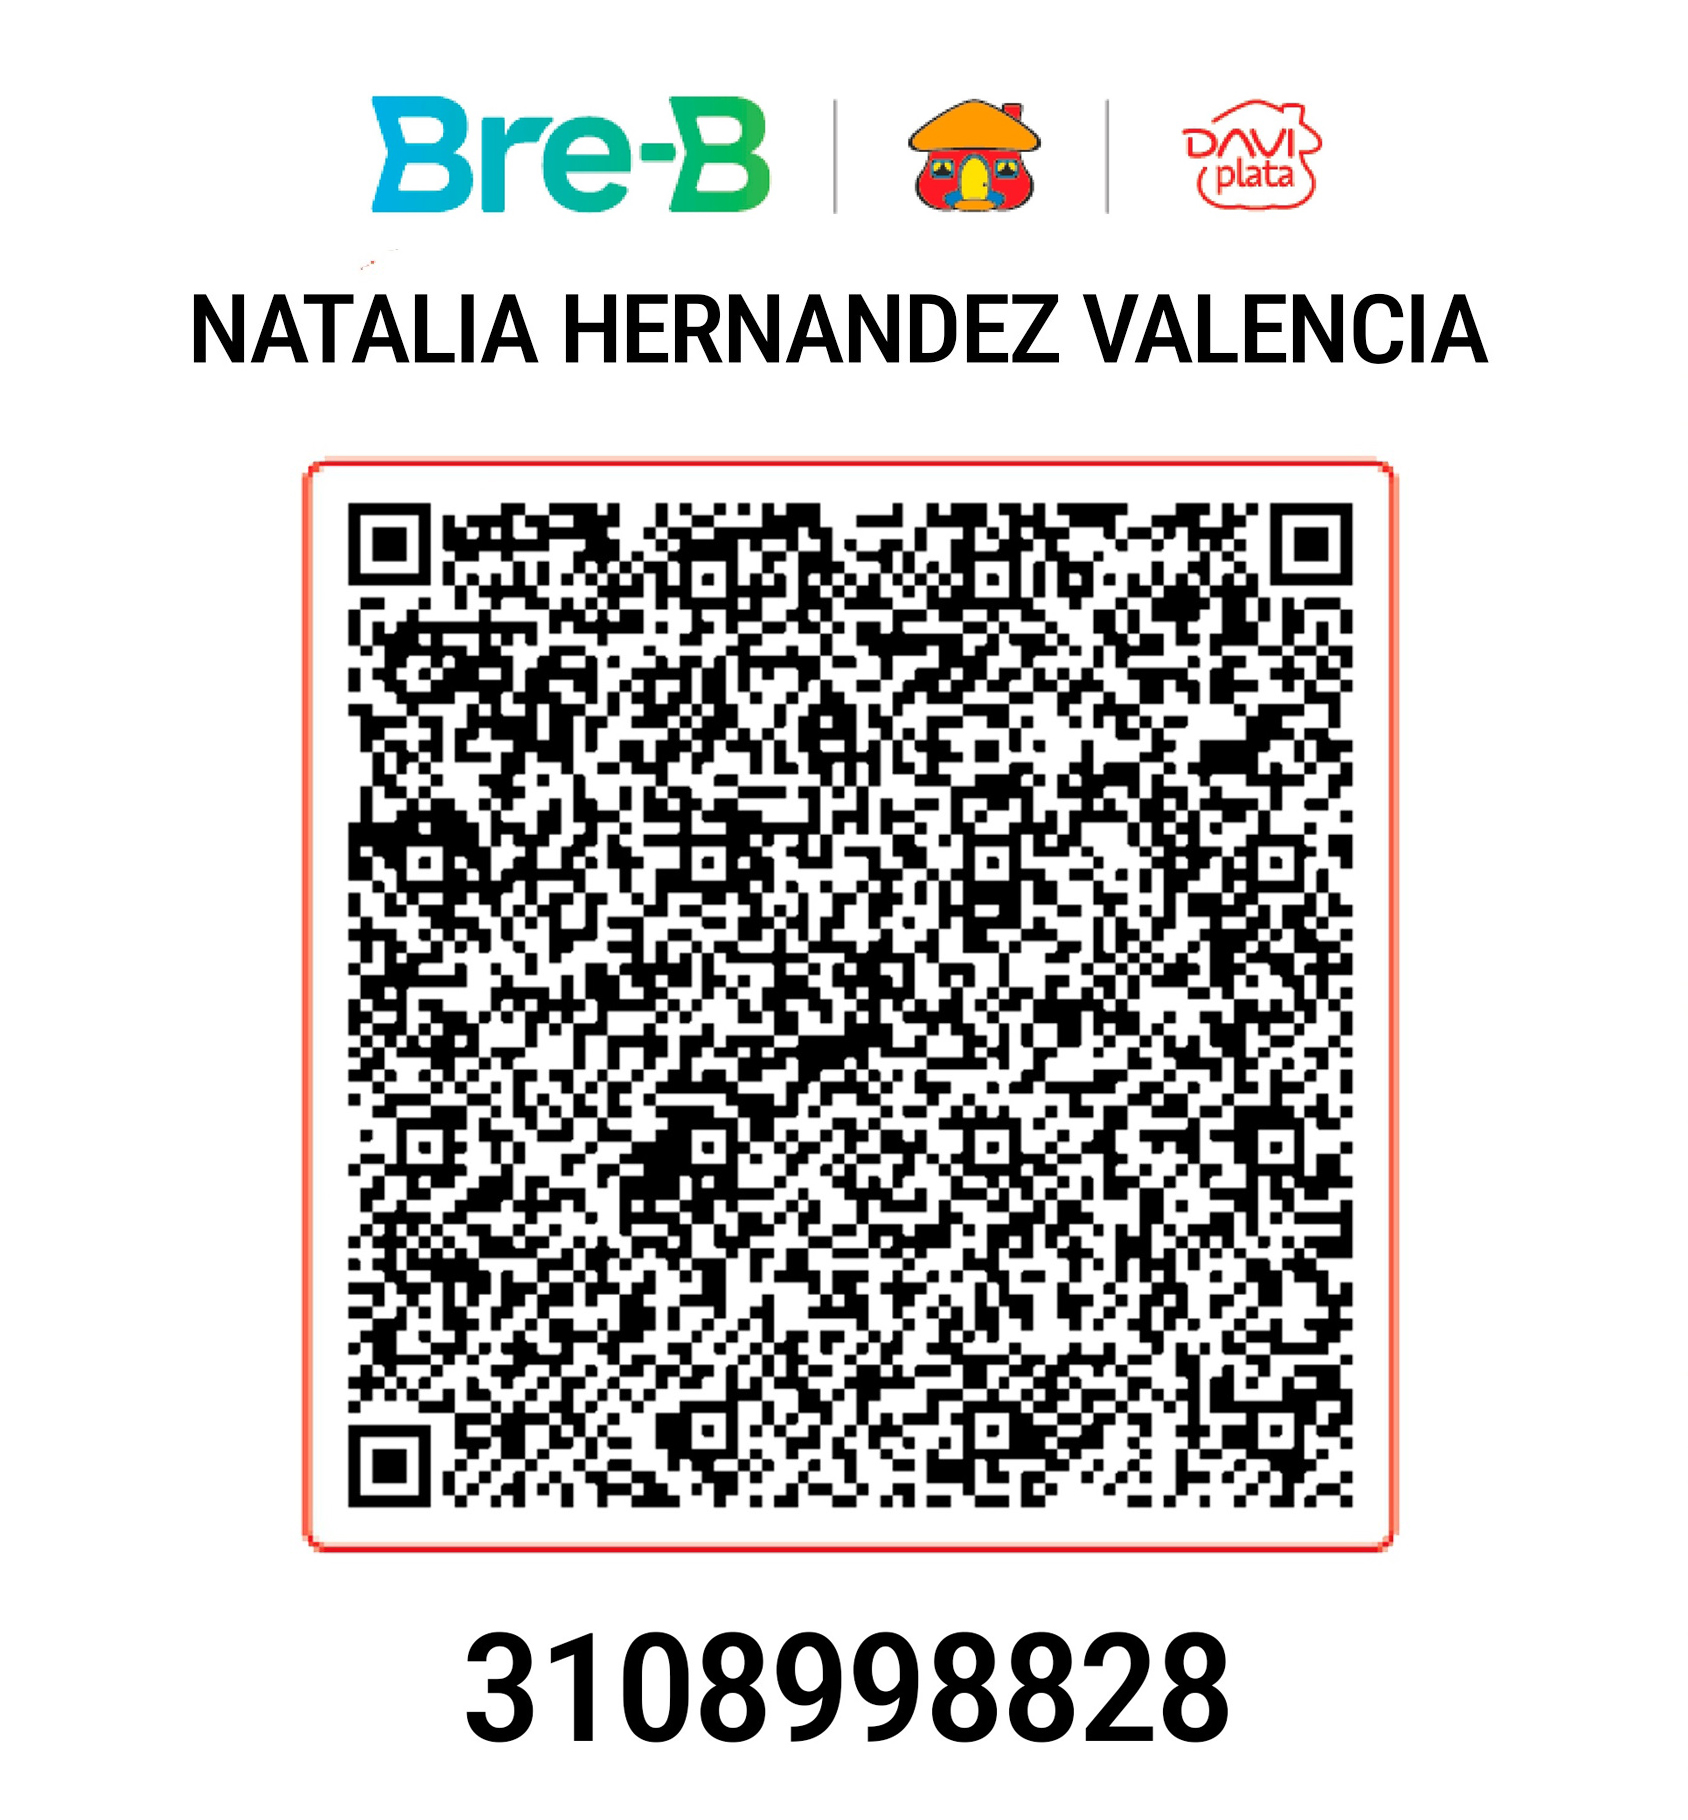
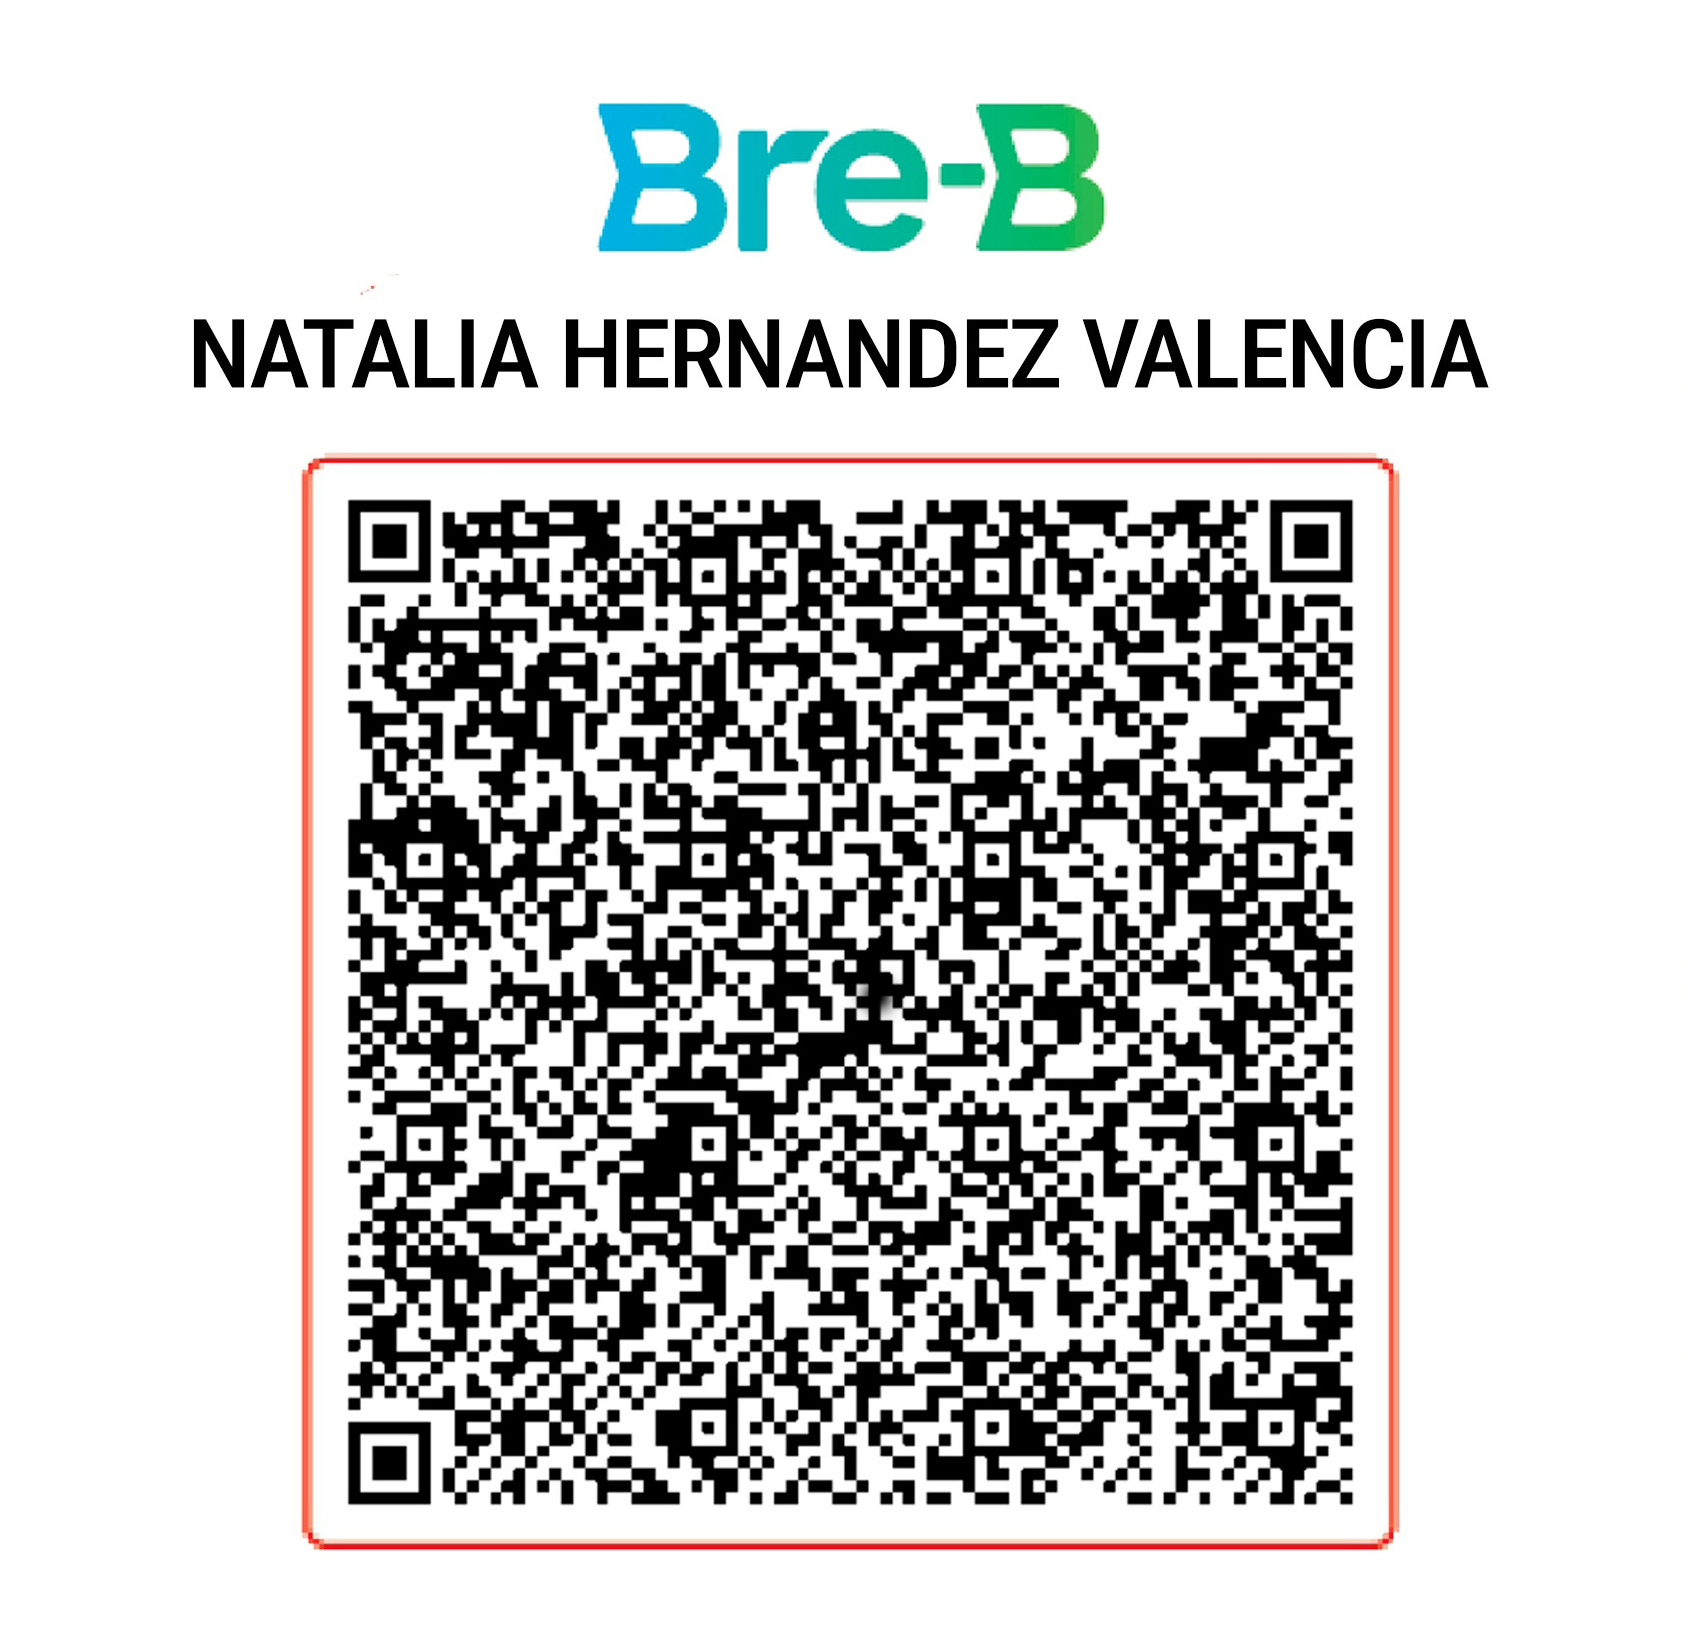
feat: enhance modal component with value display and copy functionality

diff --git a/src/app/components/modal/modal.component.css b/src/app/components/modal/modal.component.css
@@ -13,18 +13,73 @@
   cursor: pointer;
 }
 
-.modal-image {
-  max-width: 90vw;
-  max-height: 90vh;
-
-  object-fit: contain;
-
+.modal-content {
+  background: white;
   border-radius: 8px;
-
-  /* Resalta la imagen */
+  overflow: hidden;
   box-shadow: 0 0 40px rgba(255, 255, 255, 0.25);
-
   cursor: default;
+}
+
+.modal-image {
+  display: block;
+  max-width: 75vw;
+  max-height: 75vh;
+  object-fit: contain;
+}
+
+.value-container {
+  display: flex;
+  flex-direction: column;   /* apila verticalmente */
+  justify-content: center;
+  align-items: center;      /* centra horizontalmente cada hijo */
+  padding: 12px 16px;
+  cursor: pointer;
+}
+
+.value-text {
+  display: flex;
+  justify-content: center;
+  align-items: center;
+  gap: 8px;
+  color: rgb(0, 0, 0);
+  font-weight: bold;
+  font-size: clamp(20px, 5vw, 38px);
+  text-align: center;
+}
+
+.info-text {
+  display: block;
+  width: 100%;
+  color: rgb(0, 0, 0);
+  font-weight: normal;
+  font-size: clamp(10px, 3vw, 12px);
+  line-height: 1.5;         /* alto de línea */
+  text-align: center;       /* centrado horizontal */
+}
+
+.copy-button {
+  display: inline-flex;
+  align-items: center;
+  justify-content: center;
+  padding: 4px;
+  border: 0;
+  background: transparent;
+  color: #000;
+  cursor: pointer;
+}
+
+.copy-button:hover {
+  background: #fff;
+}
+
+.link-card__arrow svg {
+  width: 20px;
+  height: 20px;
+  stroke: currentColor;
+  stroke-width: 1.2;
+  stroke-linecap: round;
+  stroke-linejoin: round;
 }
 
 .close-button {

diff --git a/src/app/components/modal/modal.component.ts b/src/app/components/modal/modal.component.ts
@@ -1,5 +1,6 @@
 import { CommonModule } from '@angular/common';
 import { Component, signal } from '@angular/core';
+import { SocialLink } from '../../app';
 
 @Component({
   selector: 'app-modal',
@@ -11,14 +12,42 @@ import { Component, signal } from '@angular/core';
 export class ModalComponent {
   visible = signal(false);
   imageSrc = ''
+  value = ''
+  copied = signal(false);
+  copiedStatus = signal('\u00A0');
 
-  open(imageSrc: string): void {
-    this.imageSrc = 'images/'+imageSrc;
+  open(link: SocialLink): void {
+    this.imageSrc = 'images/' + link.icon;
+    this.value = link.value;
+
+    // this.imageSrc = 'images/' + link.value;
+    // this.value = "3108998828";
+
     this.visible.set(true);
+  }
+
+  async copyValue() {
+    this.copiedStatus.set('.......');
+
+    try {
+      await navigator.clipboard.writeText(String(this.value));
+    this.copied.set(true);
+      this.copiedStatus.set('Llave copiada.');
+    } catch (err) {
+      console.error('No se pudo copiar:', err);
+      this.copied.set(false);
+      this.copiedStatus.set('No se pudo copiar.');
+    }
+
+    console.log('Valor copiado al portapapeles:', this.value, this.copiedStatus, this.copied);
+
   }
 
   close(): void {
     this.imageSrc = '';
+    this.value = '';
+    this.copiedStatus = signal('\u00A0');
+    this.copied.set(false);
     this.visible.set(false);
   }
 }

diff --git a/src/app/components/modal/modal.component.html b/src/app/components/modal/modal.component.html
@@ -1,12 +1,27 @@
-<div class="image-modal"  *ngIf="visible()" (click)="close()">
-  <img
-    [src]="imageSrc"
-    alt="Imagen ampliada"
-    class="modal-image"
-    (click)="$event.stopPropagation()"
-  />
+<div class="image-modal" *ngIf="visible()" (click)="close()">
+  <div class="modal-content" (click)="$event.stopPropagation()">
+    <img [src]="imageSrc" alt="Image" class="modal-image" />
 
-  <button class="close-button" (click)="close()">
-    ×
-  </button>
+    <div class="value-container" (click)="copyValue()">
+      <span class="value-text">
+        {{ value }}
+        <button type="button" class="copy-button" title="Copiar valor" aria-label="Copiar valor">
+          <span class="link-card__arrow" aria-hidden="true">
+            <svg viewBox="0 0 16 16" fill="none">
+              <rect x="4" y="3.5" width="9" height="11" rx="1.5" />
+              <path d="M6 3.5V2.5H11V3.5" />
+              <path d="M6.5 7H10.5M6.5 9.5H10.5" />
+            </svg>
+          </span>
+        </button>
+      </span>
+
+      <span class="info-text">
+        {{ copiedStatus() }}
+      </span>
+
+    </div>
+  </div>
+
+  <button class="close-button" (click)="close()">×</button>
 </div>

diff --git a/src/app/app.html b/src/app/app.html
@@ -82,7 +82,7 @@
         class="link-card"
         [style.--i]="i"
         href="#"
-        (click)="modal.open(link.value)">
+        (click)="modal.open(link)">
         <!-- Icono -->
         <span class="link-card__icon">
           <img
